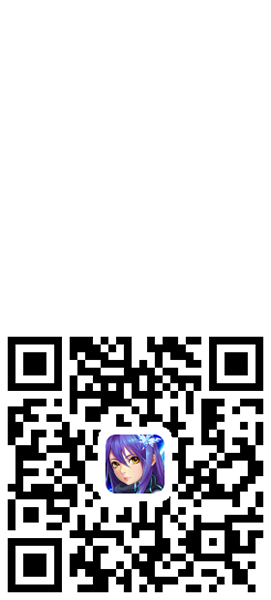
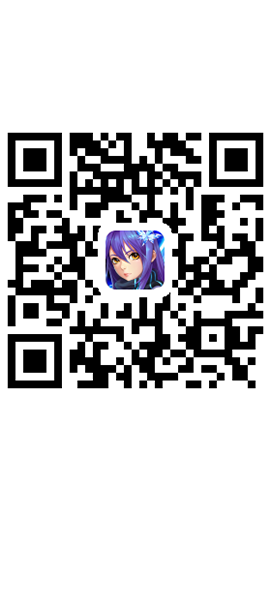
694676

diff --git a/精英测试-分享好礼/index.html b/精英测试-分享好礼/index.html
@@ -92,7 +92,7 @@ background-size: 100% auto;}
 .shit{position: absolute;top:48%;left: 0;height: 500px;width: 100%;background-image: url("images/shit.png");-webkit-transform:scale(0);transform:scale(0);}
 .inner-box{color: #fff;}
 .inner-box h3{text-align: left;width: 88%;margin: 0 auto;font-size: 2.7rem;color: #fff;}
-.inner-box img{width: 43%;margin-bottom: 3px;  margin-top: -330px;}
+.inner-box img{width: 43%;margin-bottom: 3px;  margin-top: -125px;}
 .inner-box p{font-size: 1.9rem;line-height: 2.4rem;color: #fff61c;}
 .inner-box input{font-size: 2.5rem;background: #00629d;border-radius: 7px;text-align: center;width:80%;height: 3.8rem;margin-top: 10px;margin-bottom: 2px;border:2px solid #1aa8fd;}
 .inner-box button{width: 205px;height: 69px;font-size: 2.5rem;color:#fff;background: url(images/btn.png);text-align: center;line-height: 69px;margin: 10px;;}
